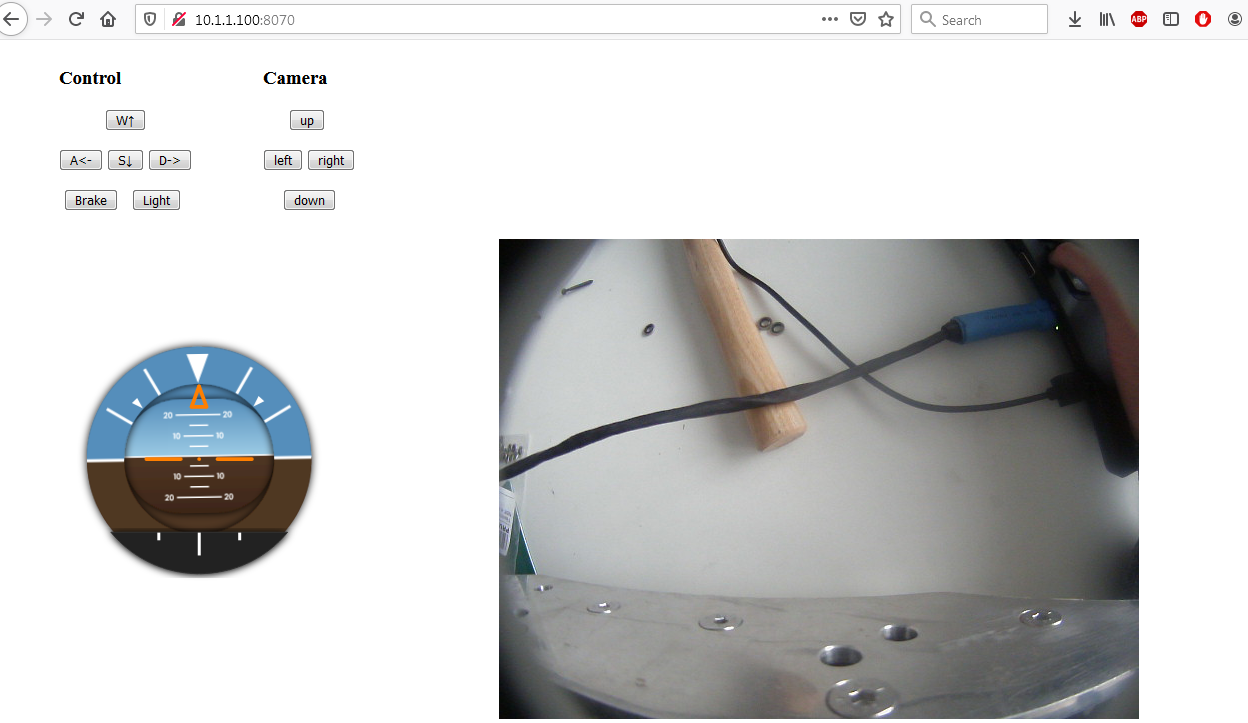
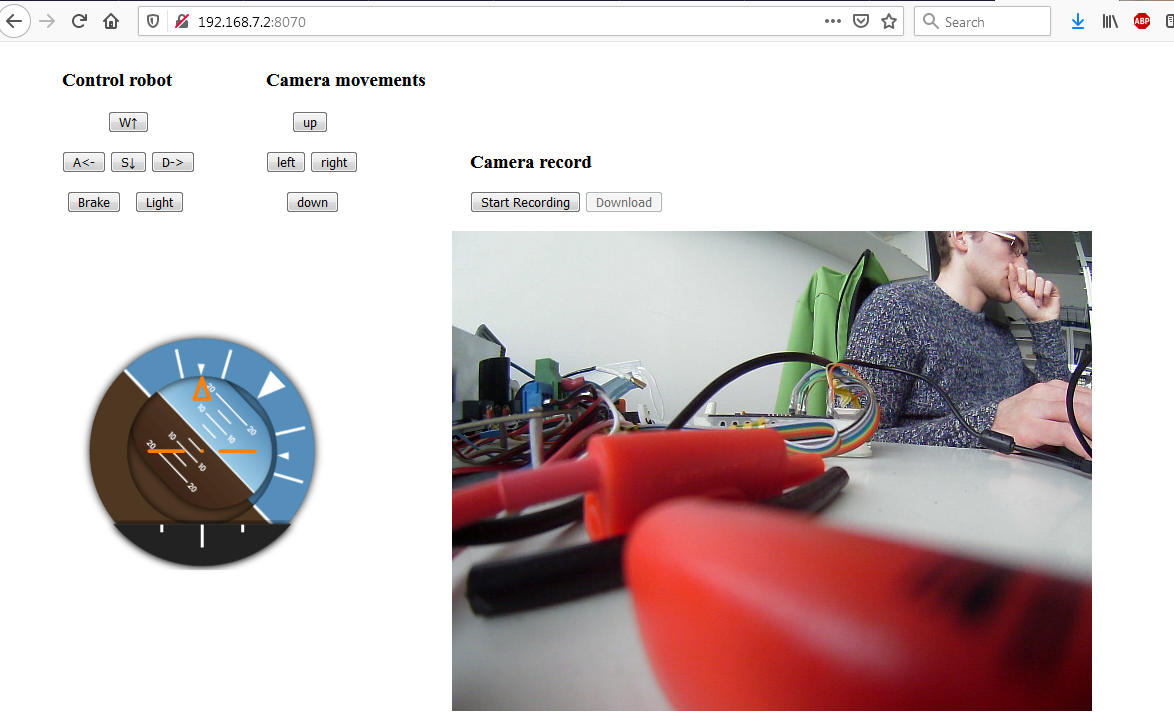
Video recording in browser, saving

diff --git a/horizon.html b/horizon.html
@@ -4,33 +4,38 @@
 	<meta charset="utf-8">
 	<title>Robot control</title>
 	<style type="text/css">
-            body {
-                    background-color: white;
-                 }
+	   body {
+            background-color: white;
+           }
 	    #control {
-        	 margin-left: 60px;
-		 width: 200px;	
-		 display:inline-block;
+            margin-left: 60px;
+            width: 200px;	
+            display:inline-block;
          	}
-	    #camera {
-                 margin-left: 0px;
-		 width: 200px;
-		 display:inline-block;
+	    #camera_mov {
+            margin-left: 0px;
+            width: 200px;
+            display:inline-block;
                 }
+      	    #camera {
+            margin-left: 0px;
+            width: 200px;
+            display:inline-block;
+		 }
+	    #cam {
+		 width: 500px;
+                }
+	   #par {
+ 		 display: flex;
+		}
 	    #front {
                 margin: 2px 46px;
                 }
 	    #brake {
                 margin: 2px 5px;
                 }
-	     #svetlo {
+	    #svetlo {
                 margin: 2px 5px;
-                }
-
-	    #webcam {
-                 margin-top: 10px;
-                 margin-left: 500px;
-		 width: 500px;
                 }
 	    #up {
          	margin: 2px 26px;
@@ -39,89 +44,95 @@
                 margin: 2px 20px;
                 }
 	    .parent {
-	     	 position: relative;
- 	 	 top: 70px;
-  		 left: 50px;
-		 width: 300px;
-		}
+          position: relative;
+          top: 70px;
+          left: 50px;
+          width: 450px;
+		    }
 	    #image1 {
-  		position: relative;
-  		top: 0;
- 	 	left: 0;
-		width: 300px;
-		}
+          position: relative;
+          top: 0;
+          left: 0;
+          width: 300px;
+		    }
 	    #image2 {
-  		position: absolute;
-  		top: 0px;
- 	 	left: 0px;
-		width: 300px;
-		}
+          position: absolute;
+          top: 0px;
+          left: 0px;
+          width: 300px;
+		  }
 	    #image3 {
-  		position: absolute;
-  		top: 0px;
-  		left: 0px;
-		width: 300px;
-        	}
+          position: absolute;
+          top: 0px;
+          left: 0px;
+          width: 300px;
+        }
 	    #image4 {
-  		position: absolute;
- 		top: 0px;
-  		left: 0px;
-		width: 300px;
-        	}
+          position: absolute;
+          top: 0px;
+          left: 0px;
+          width: 300px;
+        }
         </style>
  </head>
   <body>
-	<div id="control">
-	   <h3>Control</h3>
-	   <p> <button id="front" onclick="vpred()">W↑</button> </p>
-	   <p> <button id="left" onclick="leva()">A<-</button> 
-	       <button id="back" onclick="vzad()">S↓</button>         
-	       <button  id="right" onclick="prava()">D-></button>
-	   <p><button id="brake" onclick="brzda()">Brake</button> 
-	      <button id="svetlo" onclick="svetlo()">Light</button> </p>
+    <div id="control">
+      <h3>Control robot</h3>
+      <p> <button id="front" onclick="vpred()">W↑</button> </p>
+      <p> <button id="left" onclick="leva()">A<-</button> 
+          <button id="back" onclick="vzad()">S↓</button>         
+          <button  id="right" onclick="prava()">D-></button>
+      <p><button id="brake" onclick="brzda()">Brake</button> 
+          <button id="svetlo" onclick="svetlo()">Light</button> </p>
+    </div>
+    <div id="camera_mov">
+            <h3>Camera movements</h3>
+            <p> <button id="up" onclick="nahoru()">up</button> </p>
+            <p> <button id="left" onclick="doleva()">left</button>
+                <button id="right" onclick="doprava()">right</button>
+            </p>
+            <p><button id="down" onclick="dolu()">down</button> </p>
+      </div>
+      <div id="camera">
+            <h3>Camera record</h3>
+            <button id="record">Start Recording</button>
+            <button id="download" disabled>Download</button>
+      </div>
+     <div id="par">
+     <div class="parent">
+        <img id="image1" src="img/horizon_back.svg" />
+        <img id="image2" src="img/horizon_ball.svg" />
+        <img id="image3" src="img/horizon_circle.svg" />
+        <img id="image4" src="img/horizon_mechanics.svg" />
+    </div>
+	<div id="cam">
+	 <canvas width="640" height="480"></canvas>
 	</div>
-	 <div id="camera">
-           <h3>Camera</h3>
-           <p> <button id="up" onclick="nahoru()">up</button> </p>
-           <p> <button id="left" onclick="doleva()">left</button>
-               <button id="right" onclick="doprava()">right</button>
-           </p>
-	    <p><button id="down" onclick="dolu()">down</button> </p>
-        </div>
-	 <div id="webcam"><noscript><img src="./?action=snapshot" /></noscript></div>
-	<div class="parent">
-  	  <img id="image1" src="img/horizon_back.svg" />
-  	  <img id="image2" src="img/horizon_ball.svg" />
-  	  <img id="image3" src="img/horizon_circle.svg" />
-  	  <img id="image4" src="img/horizon_mechanics.svg" />
 	</div>
 
-     <body onload="createImageLayer();">
-
-    <script src="/socket.io/socket.io.js"></script>
-    <script type="text/javascript">
+  <script src="/socket.io/socket.io.js"></script>
+  <script type="text/javascript">
       var socket = io();
-
-      socket.on("data", function(data){
+        socket.on("data", function(data){
         datas=String.fromCharCode.apply(null, new Uint8Array(data));
         var dataArray = datas.split(" ");
         roll(Number(dataArray[2]));
-	pitch(Number(dataArray[3]));
-	});
+	      pitch(Number(dataArray[3]));
+	      });
 
       function pitch(angle) {
-	 var img2 = document.getElementById('image2');
-	 img2.style.top =  angle*0.7 + '%';
-	}
+        var img2 = document.getElementById('image2');
+        img2.style.top =  angle*0.7 + '%';
+        }
 
       function roll(angle) {
-	 var img1 = document.getElementById('image1');
+	        var img1 = document.getElementById('image1');
          var img2 = document.getElementById('image2');
          var img3 = document.getElementById('image3');
         img1.style.transform = 'rotate(' + angle + 'deg)';
         img2.style.transform = 'rotate(' + angle + 'deg)';
         img3.style.transform = 'rotate(' + angle + 'deg)';
-	}
+	    }
        function nahoru() {
            socket.emit("pohyb", "i");
         }
@@ -160,64 +171,141 @@
 	document.addEventListener('keydown',press)
 	function press(e){
   	if (e.keyCode === 87 && front===false){
-		socket.emit("pohyb", "w");
+		    socket.emit("pohyb", "w");
     		front = true;
   	}
   	if (e.keyCode === 68 /* d */&& right===false){
-		socket.emit("pohyb", "d");
+		    socket.emit("pohyb", "d");
     		right = true;
   	}
   	if (e.keyCode === 83 /* s */&&back===false){
     		socket.emit("pohyb", "s");
-		back = true;
+		    back = true;
   	}
   	if (e.keyCode === 65 /* a */&&left===false){
     		socket.emit("pohyb", "a");
-		left = true;
+		    left = true;
   	}
 	}
 	document.addEventListener('keyup',release)
         function release(e){
         if (e.keyCode === 87 /* w */){
                 socket.emit("pohyb", "b");
-		front = false;
+		            front = false;
         }
         if (e.keyCode === 68 /* d */){
-		socket.emit("pohyb", "b");
+		            socket.emit("pohyb", "b");
                 right = false;
         }
         if (e.keyCode === 83 /* s */){
-		socket.emit("pohyb", "b");
+		            socket.emit("pohyb", "b");
                 back = false;
         }
         if (e.keyCode === 65 /* a */){
-		socket.emit("pohyb", "b");
+		            socket.emit("pohyb", "b");
                 left = false;
         }
-        }
+    }
+
 	var imageNr = 0;
-	var finished = new Array(); 
+  var canvas = document.querySelector("canvas");
+  var ctx = canvas.getContext("2d");
+  var imgs = new Image();
+	imgs.crossOrigin = 'anonymous';
+	function draw(){
+          //192.168.7.2 for usb, 10.1.1.100 ethernet (static IP)
+          imgs.src = "http://192.168.7.2:8090/?action=snapshot&n=" + (++imageNr);
+          ctx.drawImage(imgs,0,0);
+  }
+	draw();
+   //key value for video smoothness
+  setInterval(draw, 150);
 
-	function createImageLayer() {
-  		var img = new Image();
-  		img.style.position = "absolute";
-  		img.style.zIndex = -1;
-  		img.onload = imageOnload;
-		//192.168.7.2 for usb, 10.1.1.100 ethernet (static IP)
-  		img.src = "http://10.1.1.100:8090/?action=snapshot&n=" + (++imageNr);
-  		var webcam = document.getElementById("webcam");
-  		webcam.insertBefore(img, webcam.firstChild);
-	}
+  const mediaSource = new MediaSource();
+  mediaSource.addEventListener('sourceopen', handleSourceOpen, false);
+  let mediaRecorder;
+  let recordedBlobs;
+  let sourceBuffer;
+  const recordButton = document.querySelector('button#record');
+  const downloadButton = document.querySelector('button#download');
+  recordButton.onclick = toggleRecording;
+  downloadButton.onclick = download;
+  const stream = canvas.captureStream(10); // frames per second
+  console.log('Started stream capture from canvas element: ', stream);
+  function handleSourceOpen(event) {
+    console.log('MediaSource opened');
+    sourceBuffer = mediaSource.addSourceBuffer('video/webm; codecs="vp8"');
+    console.log('Source buffer: ', sourceBuffer);
+  }
+  function handleDataAvailable(event) {
+    if (event.data && event.data.size > 0) {
+      recordedBlobs.push(event.data);
+    }
+  }
+  function handleStop(event) {
+    console.log('Recorder stopped: ', event);
+    const superBuffer = new Blob(recordedBlobs, {type: 'video/webm'});
+  }
+  function toggleRecording() {
+    if (recordButton.textContent === 'Start Recording') {
+      startRecording();
+    } else {
+      stopRecording();
+      recordButton.textContent = 'Start Recording';
+      downloadButton.disabled = false;
+    }
+  }
+  function startRecording() {
+    let options = {mimeType: 'video/webm'};
+    recordedBlobs = [];
+    try {
+      mediaRecorder = new MediaRecorder(stream, options);
+    } catch (e0) {
+      console.log('Unable to create MediaRecorder with options Object: ', e0);
+      try {
+        options = {mimeType: 'video/webm,codecs=vp9'};
+        mediaRecorder = new MediaRecorder(stream, options);
+      } catch (e1) {
+        console.log('Unable to create MediaRecorder with options Object: ', e1);
+        try {
+          options = 'video/vp8'; 
+          mediaRecorder = new MediaRecorder(stream, options);
+        } catch (e2) {
+          alert('MediaRecorder is not supported by this browser.\n\n' +
+            'Try Firefox 29 or later, or Chrome 47 or later, ' +
+            'with Enable experimental Web Platform features enabled from chrome://flags.');
+          console.error('Exception while creating MediaRecorder:', e2);
+          return;
+        }
+      }
+    }
+    console.log('Created MediaRecorder', mediaRecorder, 'with options', options);
+    recordButton.textContent = 'Stop Recording';
+    downloadButton.disabled = true;
+    mediaRecorder.onstop = handleStop;
+    mediaRecorder.ondataavailable = handleDataAvailable;
+    mediaRecorder.start(200);
+    console.log('MediaRecorder started', mediaRecorder);
+  }
+  function stopRecording() {
+    mediaRecorder.stop();
+    console.log('Recorded Blobs: ', recordedBlobs);
+  }
 
-	function imageOnload() {
-  		this.style.zIndex = imageNr;
-  	    while (1 < finished.length) {
-    		var del = finished.shift();
-    		del.parentNode.removeChild(del);
-  	    }
-  		finished.push(this);
-		createImageLayer();
-	}
-    </script>	
+  function download() {
+    const blob = new Blob(recordedBlobs, {type: 'video/webm'});
+    const url = window.URL.createObjectURL(blob);
+    const a = document.createElement('a');
+    a.style.display = 'none';
+    a.href = url;
+    a.download = 'video.webm';
+    document.body.appendChild(a);
+    a.click();
+    setTimeout(() => {
+      document.body.removeChild(a);
+      window.URL.revokeObjectURL(url);
+    }, 100);
+  }
+  </script>	
 </body>
 </html>
